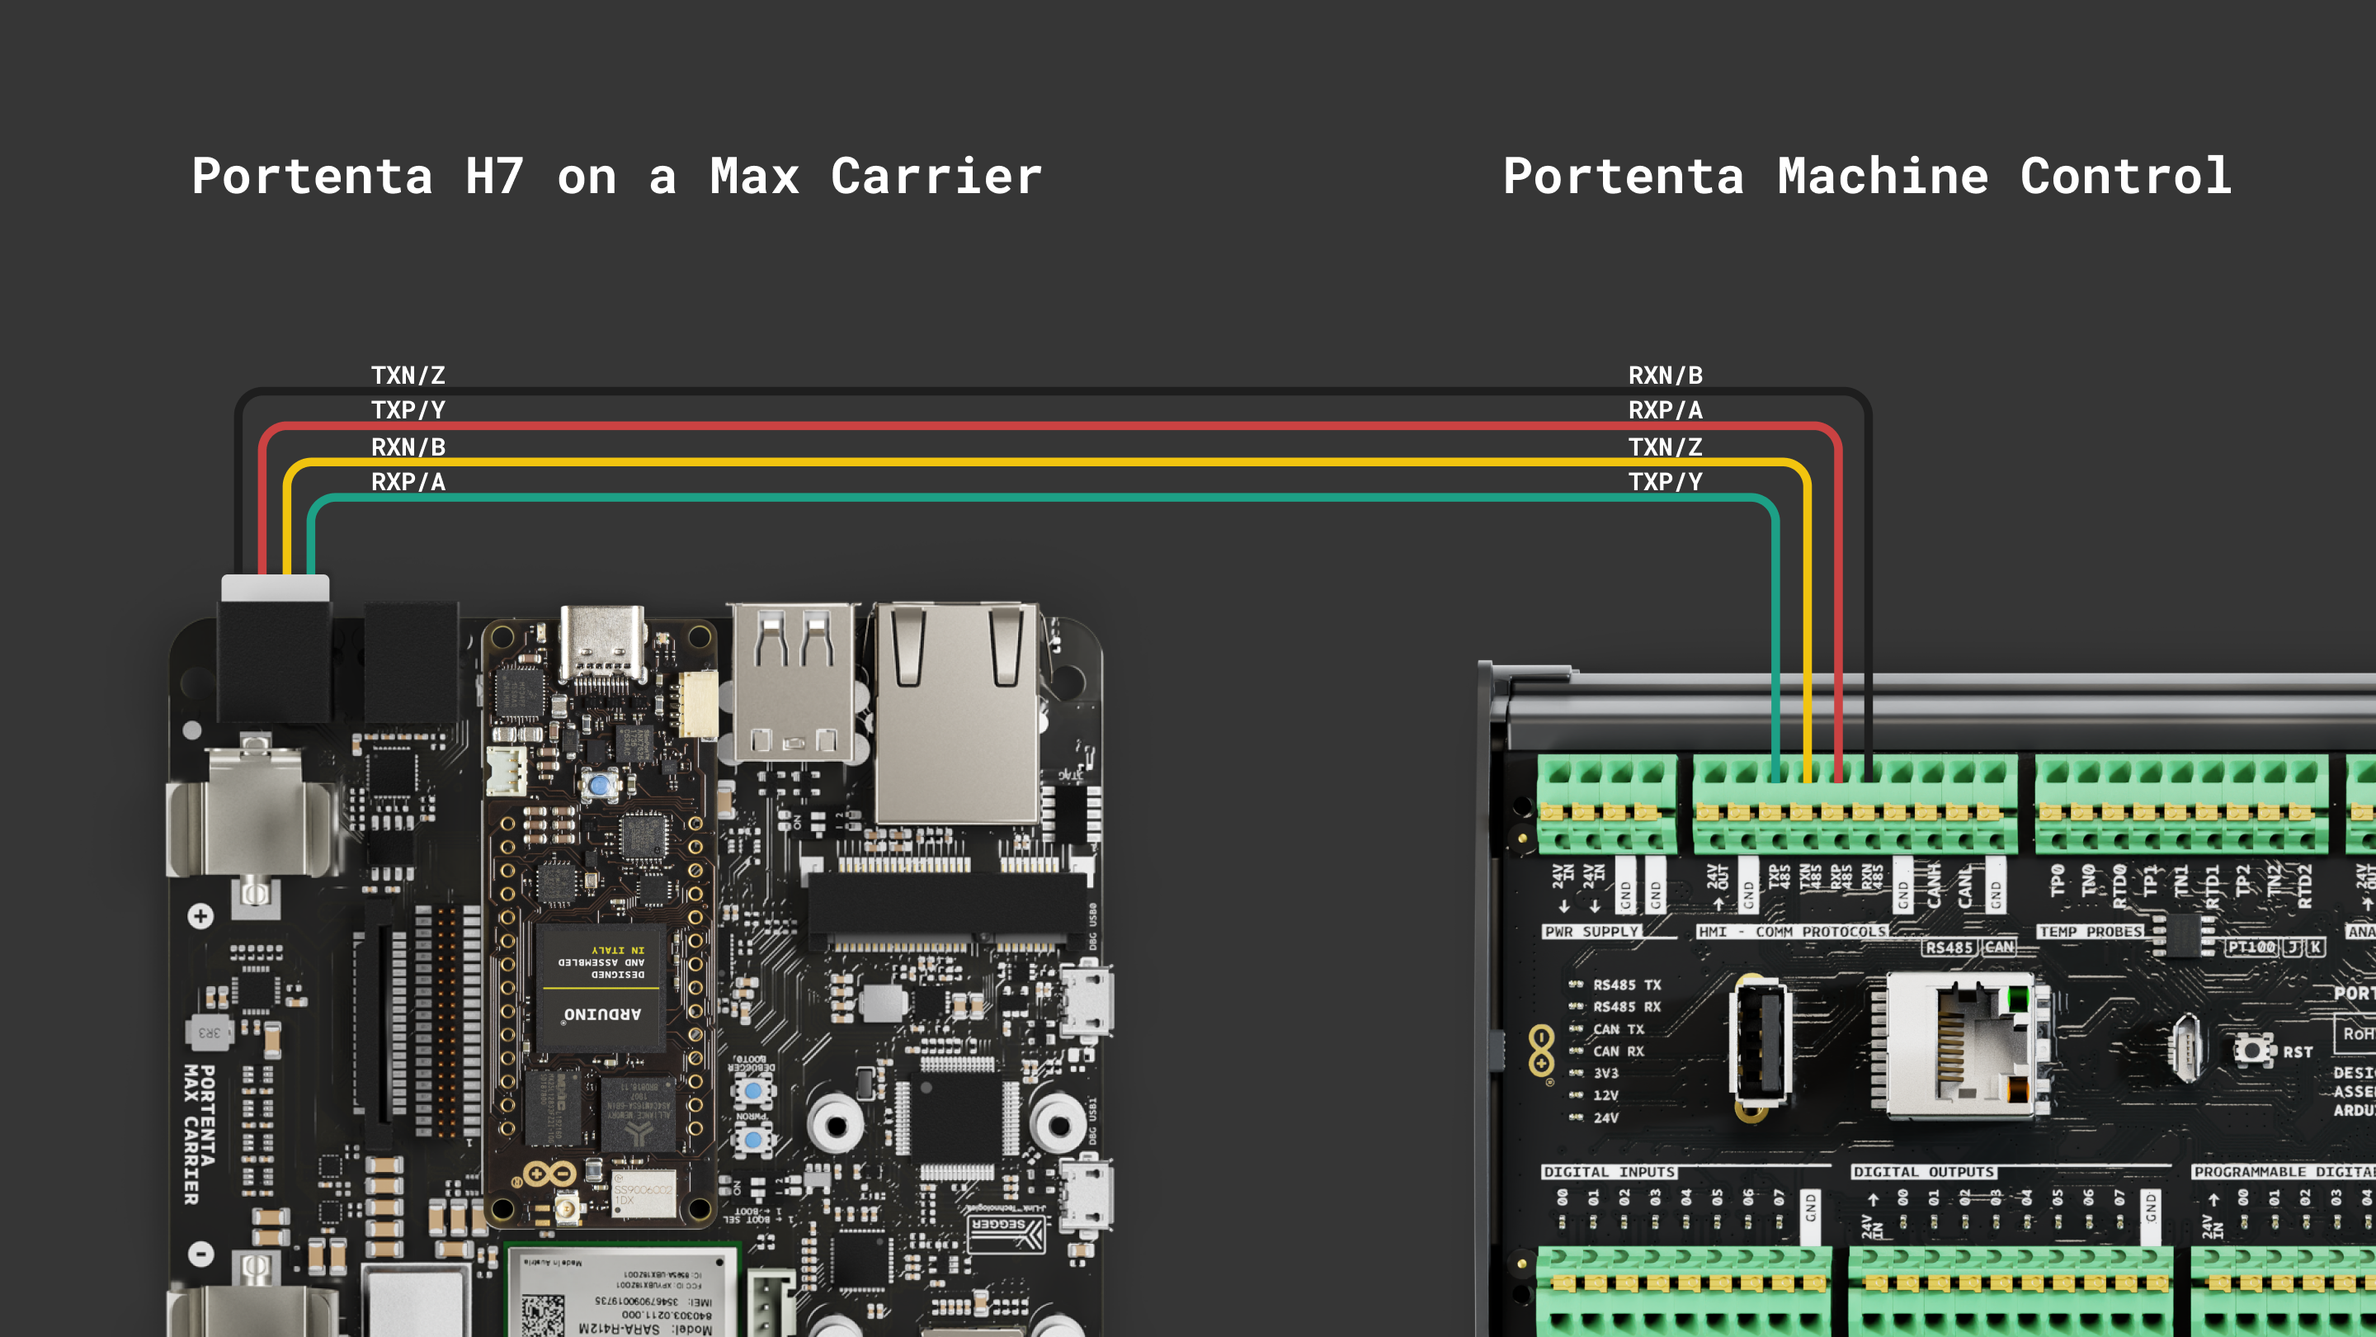
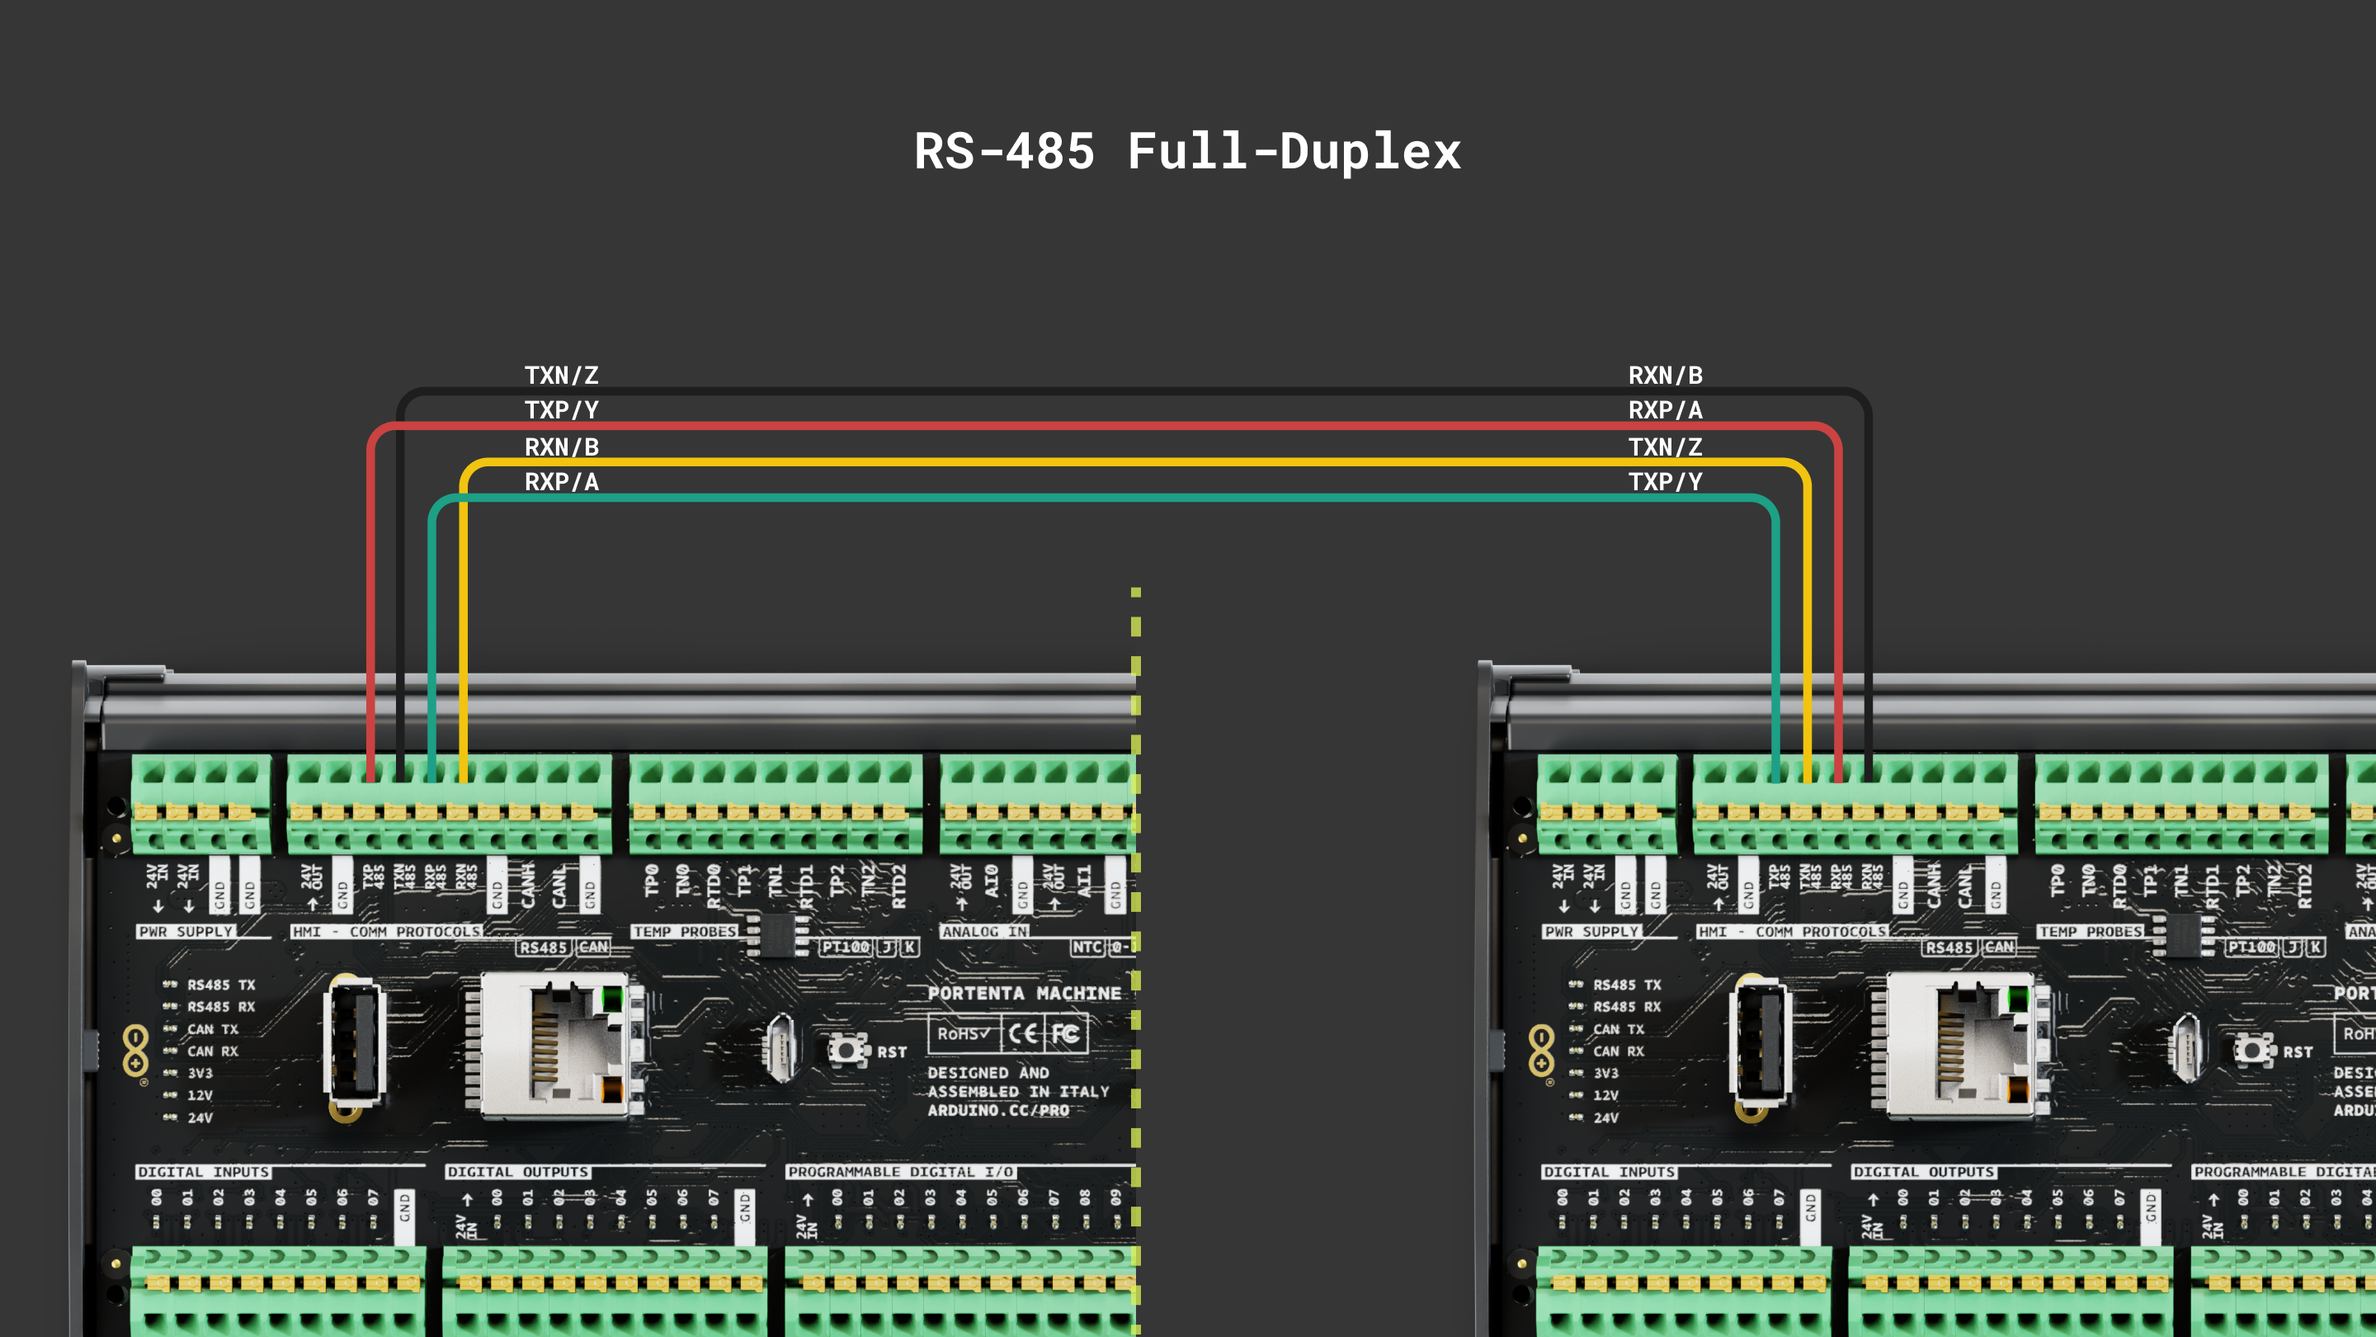
RS and CAN sections updated

Changed region(s): [[0.0312, 0.2778, 0.5, 1.0], [0.0625, 0.0926, 0.625, 0.1543], [0.625, 0.1235, 0.9375, 0.1543]]

diff --git a/content/hardware/05.pro-solutions/solutions-and-kits/portenta-machine-control/tutorials/user-manual/content.md b/content/hardware/05.pro-solutions/solutions-and-kits/portenta-machine-control/tutorials/user-manual/content.md
@@ -899,7 +899,7 @@ Since the data is fetched only once, there's no need to send `HTTP GET` requests
 
 ![Example sketch output in the Arduino IDE's Serial Monitor](assets/user-manual-19.png)
 
-### RS-485
+### RS-485 (Half/Full Duplex)
 
 The Portenta Machine Control has a built-in RS-485 interface that enables the implementation of robust and reliable data transmission systems. RS-485 interface is a protocol widely used in industrial applications. The wide common-mode range enables data transmission over longer cable lengths and in noisy environments such as the floor of a factory. Also, the high input impedance of the receivers allows more devices to be attached to the communication lines.
 
@@ -928,6 +928,8 @@ RS-485 data lines in the Portenta Machine Control are labeled as described in th
 |  RS485 RX N  |          `RX-`         |           -           |
 
 ***RS-485 data line labels differ between manufacturers. Most manufacturers will use `+` and `–` to label the data lines or variations such as `D+` and `D-`. Some manufacturers will label inputs as `A` and `B` but get the polarity backward, so `A` is positive and `B` negative. Although predicting how other manufacturers will mark these lines is impossible, practical experience suggests that the `-` line should be connected to the `A` terminal. The `+` line should be connected to the `B` terminal. Reversing the polarity will not damage an RS-485 device but the communication will not work as expected.***
+
+
 
 The example sketch below shows how to use the RS-485 interface of the Portenta Machine Control for half-duplex communication.
 
@@ -995,7 +997,7 @@ void loop() {
 }
 ```
 
-In this example sketch, a message is periodically sent over the RS-485 interface Of the Portenta Machine Control. The sketch initializes the RS-485 interface for half-duplex communication and sends a `String` message with a counter. After each transmission, it switches back to receive mode to listen for incoming data.
+In this example sketch, a message is periodically sent over the RS-485 interface of the Portenta Machine Control. The sketch initializes the RS-485 interface for half-duplex communication and sends a `String` message with a counter. After each transmission, it switches back to receive mode to listen for incoming data.
 
 The example sketch uses the following functions from the `Arduino_PortentaMachineControl` library for RS-485 communication. Here is an explanation of the functions:
 
@@ -1009,16 +1011,16 @@ The example sketch uses the following functions from the `Arduino_PortentaMachin
 
 ***To receive and show the messages on your computer, you can use a USB to RS-485 converter, such as [the converter used by the Arduino Pro Content Team](https://www.waveshare.com/usb-to-rs485.htm). You can use the Arduino IDE's Serial Monitor to display the messages received in the converter or another serial terminal such as [CoolTerm](https://freeware.the-meiers.org/), a simple and cross-platform (Windows, Mac, and Linux) serial port terminal application (no terminal emulation) that is geared towards hobbyists and professionals.***
 
-As a practical example, we will **establish a full duplex communication between the Portenta Machine Control and a Portenta Max Carrier paired with a Portenta H7 board**. Follow the wiring below for the RS-485 full-duplex communication.
+As a practical example, we will **establish a full duplex communication between two Portenta Machine Controls**. Follow the wiring below for the RS-485 full-duplex communication.
 
 ![Full-duplex RS-485 wiring](assets/RS-485-full.png)
 
-For the **Portenta Machine Control**, use the example sketch shown below; it can also be found on the Arduino IDE by navigating to **File > Examples > Arduino_PortentaMachineControl > RS485_fullduplex**.
+For both **Portenta Machine Controls**, use the example sketch shown below; it can also be found on the Arduino IDE by navigating to **File > Examples > Arduino_PortentaMachineControl > RS485_fullduplex**.
 
 ```arduino
 /*
  * Portenta Machine Control's RS-485 Full Duplex Communication
- * Name: portenta_machine_control_rs485_full_duplex_example.ino
+ * Name: RS485_fullduplex.ino
  * Purpose: Demonstrates full duplex RS-485 communication using
  * the Portenta Machine Control. The sketch shows how to send 
  * and receive data periodically on the RS-485 interface.
@@ -1083,151 +1085,13 @@ void loop() {
 }
 ```
 
-For the **Portenta H7** board paired with the Portenta Max Carrier, use the following example sketch:
+Both devices will send and receive messages respectively through the RS-485 interface and will print them in the IDE's Serial Monitor as shown in the animation below. 
 
-```arduino
- /*
- * Portenta H7 RS-485 Full Duplex Communication
- * Name: portenta_h7_rs485_full_duplex_example.ino
- * Purpose: Demonstrates full duplex RS-485 communication using
- * the Portenta Portenta H7 (on Portenta Max Carrier) and the 
- * Portenta Machine Control. The sketch demonstrates how to send 
- * and receive data periodically on the RS-485 interface.
- *
- * @author Arduino PRO Content Team
- * @version 1.0 01/10/23
- */
-
-// Include the necessary libraries
-#include <ArduinoRS485.h>
-
-// Define the interval for sending messages
-constexpr unsigned long sendInterval{ 1000 };
-unsigned long sendNow{ 0 };
-int counter = 0;
-
-arduino::UART _UART4_{ PA_0, PI_9, NC, NC };
-RS485Class rs485{ _UART4_, PA_0, PI_10, PJ_10 };  // UART4, TX, CTS, RTS
-
-void setup() {
-  // Initialize RS-485 with default settings for the Portenta H7 and the Portenta Max Carrier
-  RS485init();
-  delay(1000);
-
-  // Enable RS-485 interface
-  rs485Enable(true);
-
-  // Enable full duplex mode with A/B and Y/Z 120 Ohm termination resistors
-  rs485FullDuplex(true);
-
-  // Initialize RS-485 communication with specific baudrate and timing
-  rs485.begin(115200, 0, 500);
-
-  // Start in receive mode for communication with the Portenta Machine Control
-  rs485.receive();
-}
-
-void loop() {
-  // Read incoming data from the Portenta Machine Control
-  if (rs485.available()) {
-    Serial.write(rs485.read());
-  }
-
-  // Send data at defined intervals to Portenta Machine Control
-  if (millis() > sendNow) {
-    // Prepare for sending data
-    rs485.noReceive();  
-
-    rs485.beginTransmission();
-    rs485.print("- Hello I'm Max! ");
-    rs485.println(counter++);
-
-    // End of data transmission
-    rs485.endTransmission();
-
-    // Switch back to receive mode and schedule next transmission
-    rs485.receive(); 
-    sendNow = millis() + sendInterval;
-  }
-}
-
-/**
-  Initializes the RS-485 settings for the Portenta H7 and Portenta Max Carrier.
-
-  Sets the initial state of the RS-485 communication interface and configures
-  the communication mode and termination resistors.
-*/
-void RS485init() {
-    rs485Enable(false);
-    rs485ModeRS232(false);
-    rs485FullDuplex(false);
-    rs485YZTerm(false);
-    rs485ABTerm(false);
-}
-
-/**
-  Enables or disables the RS-485 communication interface.
-  Set to true to enable the RS-485 interface, or false to disable it.
-
-  @param enable (bool)
-*/
-void rs485Enable(bool enable) {
-    digitalWrite(PC_7, enable ? HIGH : LOW);
-}
-
-/**
-  Sets the communication mode to RS232 or RS485.
-  Set to true to enable RS232 mode, or false for RS485 mode.
-
-  @param enable (bool)
-*/
-void rs485ModeRS232(bool enable) {
-    digitalWrite(PC_6, enable ? LOW : HIGH);
-}
-
-/**
-  Enables or disables the YZ termination resistors for RS-485 communication.
-  Set to true to enable YZ termination resistors, or false to disable them.
-
-  @param enable (bool)
-*/
-void rs485YZTerm(bool enable) {
-    digitalWrite(PG_3, enable ? HIGH : LOW);
-}
-
-/**
-  Enables or disables the AB termination resistors for RS-485 communication.
-  Set to true to enable AB termination resistors, or false to disable them.
-
-  @param enable (bool)
-*/
-void rs485ABTerm(bool enable) {
-    digitalWrite(PJ_7, enable ? HIGH : LOW);
-}
-
-/**
-  Sets the RS485 communication to full duplex mode.
-  Set to true to enable full duplex mode, or false for half duplex.
-
-  @param enable (bool)
-*/
-void rs485FullDuplex(bool enable) {
-    digitalWrite(PA_8, enable ? LOW : HIGH);
-    if (enable) {
-        // RS485 Full Duplex requires YZ and AB 120 Ohm termination enabled
-        rs485YZTerm(true);
-        rs485ABTerm(true);
-    }
-}
-```
-
-Both, the Portenta Max Carrier and the Portenta Machine Control will send and receive messages respectively through the RS-485 interface and will print them in the IDE's Serial Monitor as shown in the animation below. 
-
-![Full-duplex RS-485 communication example](assets/rs485ani.gif)
+![Full-duplex RS-485 communication example](assets/)
 
 ### Modbus (RTU/TCP)
 
-The Portenta Machine Control incorporate a built-in Modbus interface, enabling the implementation of robust and reliable data transmission systems. Modbus, in its RTU version that operates RS-485 serial transmission or in its TCP version that works over Ethernet, remains one of the most widely used protocols for industrial automation applications, building management systems, and process control, among others.
+The Portenta Machine Control incorporates a built-in Modbus interface, enabling the implementation of robust and reliable data transmission systems. Modbus, in its RTU version that operates RS-485 serial transmission or in its TCP version that works over Ethernet, remains one of the most widely used protocols for industrial automation applications, building management systems, and process control, among others.
 
 Modbus RTU, generally operating in half-duplex mode, with its capability to handle noisy and long-distance transmission lines, makes it an excellent choice for industrial environments. Modbus RTU communication is supported using Portenta's Machine Control RS-485 physical interface.
 
@@ -1264,7 +1128,7 @@ Ethernet.begin(<mac>, <IP>);
 
 ***The client must know the server IP to establish communication between them.***
 
-For the Portenta Machine Control defined as the client, use the example sketch shown below:
+For the **Portenta Machine Control** defined as the client, use the example sketch shown below:
 
 ```arduino
 /*
@@ -1350,7 +1214,7 @@ void loop() {
 }
 ```
 
-For the Opta™ device defined as the server, use the example sketch shown below:
+For the **Opta™** device defined as the server, use the example sketch shown below:
 
 ```arduino
 /*
@@ -1470,12 +1334,12 @@ Some of the key capabilities of the onboard CAN transceiver in the Portenta Mach
 - **Low-current standby mode with wake-up functionality**: The onboard transceiver features a low-power standby mode, which includes efficient wake-up capabilities, crucial for energy-efficient applications.
 - **Compliance with ISO11898 standard**: Adhering to the ISO11898 standard, the TJA1049 ensures reliable communication at data rates up to 5 Mbit/s, making it ideal for HS CAN networks operating in low-power modes.
 
-The example sketch below shows how to use the CAN bus interface of the Portenta Machine Control to transmit data.
+The example sketch below shows how to use the CAN bus interface of the Portenta Machine Control to transmit data. You can also find it in **File > Examples > Arduino_PortentaMachineControl > CAN > WriteCan**.
 
 ```arduino
 /*
   Portenta Machine Control's CAN Bus Communication
-  Name: portenta_machine_control_can_example.ino
+  Name: WriteCan.ino
   Purpose: Demonstrates data transmission using the CAN bus
   interface on the Portenta Machine Control.
 
@@ -1536,42 +1400,42 @@ The example sketch uses the `Arduino_PortentaMachineControl` library for CAN com
 - `MachineControl_CANComm.read()`: Reads incoming data from the CAN bus. This function is used to retrieve data that has been received.
 - `MachineControl_CANComm.end()`: This function can disable the CAN module when it's no longer needed, helping conserve power.
 
-As a practical example, we will establish a CAN communication between the Machine Control and a Portenta Max Carrier with a Portenta C33 board. Follow the wiring shown below for the CAN communication.
-
-![CAN communication wiring](assets/CAN-bus-wiring.png)
-
-***For stable CAN bus communication, it is recommended to install 120 Ω termination resistors between CANH and CANL lines. The Portenta Machine Control has built-in 120 Ω termination resistors.***
-
-For the Portenta Machine Control, use the example explained before to transmit data. For the Portenta C33 board on the Portenta Max Carrier, use the example sketch shown below. Notice that the `Arduino_CAN` library is a built-in library of the the `Arduino Mbed OS Portenta Boards` core that lets you use the onboard CAN interface of the Portenta C33 board. 
+The example sketch below shows how to use the CAN bus interface of the Portenta Machine Control to read data. You can also find it in **File > Examples > Arduino_PortentaMachineControl > CAN > ReadCan**.
 
 ```arduino
-#include <Arduino_CAN.h>
+#include <Arduino_PortentaMachineControl.h>
 
-void setup()
-{
-  Serial.begin(115200);
-  while (!Serial) { }
+void setup() {
+  Serial.begin(9600);
+  while (!Serial) {
+    ; // wait for serial port to connect.
+  }
 
-  if (!CAN.begin(CanBitRate::BR_500k))
-  {
-    Serial.println("CAN.begin(...) failed.");
-    for (;;) {}
+  if (!MachineControl_CANComm.begin(CanBitRate::BR_500k)) {
+    Serial.println("CAN init failed.");
+    while(1) ;
   }
 }
 
-void loop()
-{
-  if (CAN.available())
-  {
-    CanMsg const msg = CAN.read();
+void loop() {
+  if (MachineControl_CANComm.available()) {
+    CanMsg const msg = MachineControl_CANComm.read();
     Serial.println(msg);
   }
 }
 ```
 
-The Portenta Machine Control will send messages continuously to the Portenta Max Carrier through CAN bus, the received message will be received in the Portenta C33 board; you can see the received message using the Arduino's IDE Serial Monitor. 
+As a practical example, we will establish a CAN communication between two Portenta Machine Controls. Follow the wiring shown below for the CAN communication.
 
-![Communication between the Portenta Machine Control and Portenta Max Carrier](assets/can.gif)
+![CAN communication wiring](assets/can-wiring.png)
+
+***The Portenta Machine Control has built-in 120 Ω termination resistors.***
+
+For one of the Portenta Machine Controls use the CAN writing example, and for the other one, use the CAN reading example explained above. 
+
+The Portenta Machine Control will send messages continuously to the other Machine Control through CAN bus; you can see the received message using the Arduino's IDE Serial Monitor. 
+
+![Communication between the Portenta Machine Controls](assets/can.gif)
 
 ***To receive and show the messages on your computer, you can use a USB to CAN bus converter, as an [example](https://www.waveshare.com/usb-can-a.htm). You can use the Arduino IDE's Serial Monitor to display the messages received in the converter or another serial terminal such as [CoolTerm](https://freeware.the-meiers.org/), a simple and cross-platform (Windows, Mac, and Linux) serial port terminal application (no terminal emulation) that is geared towards hobbyists and professionals.***
 
